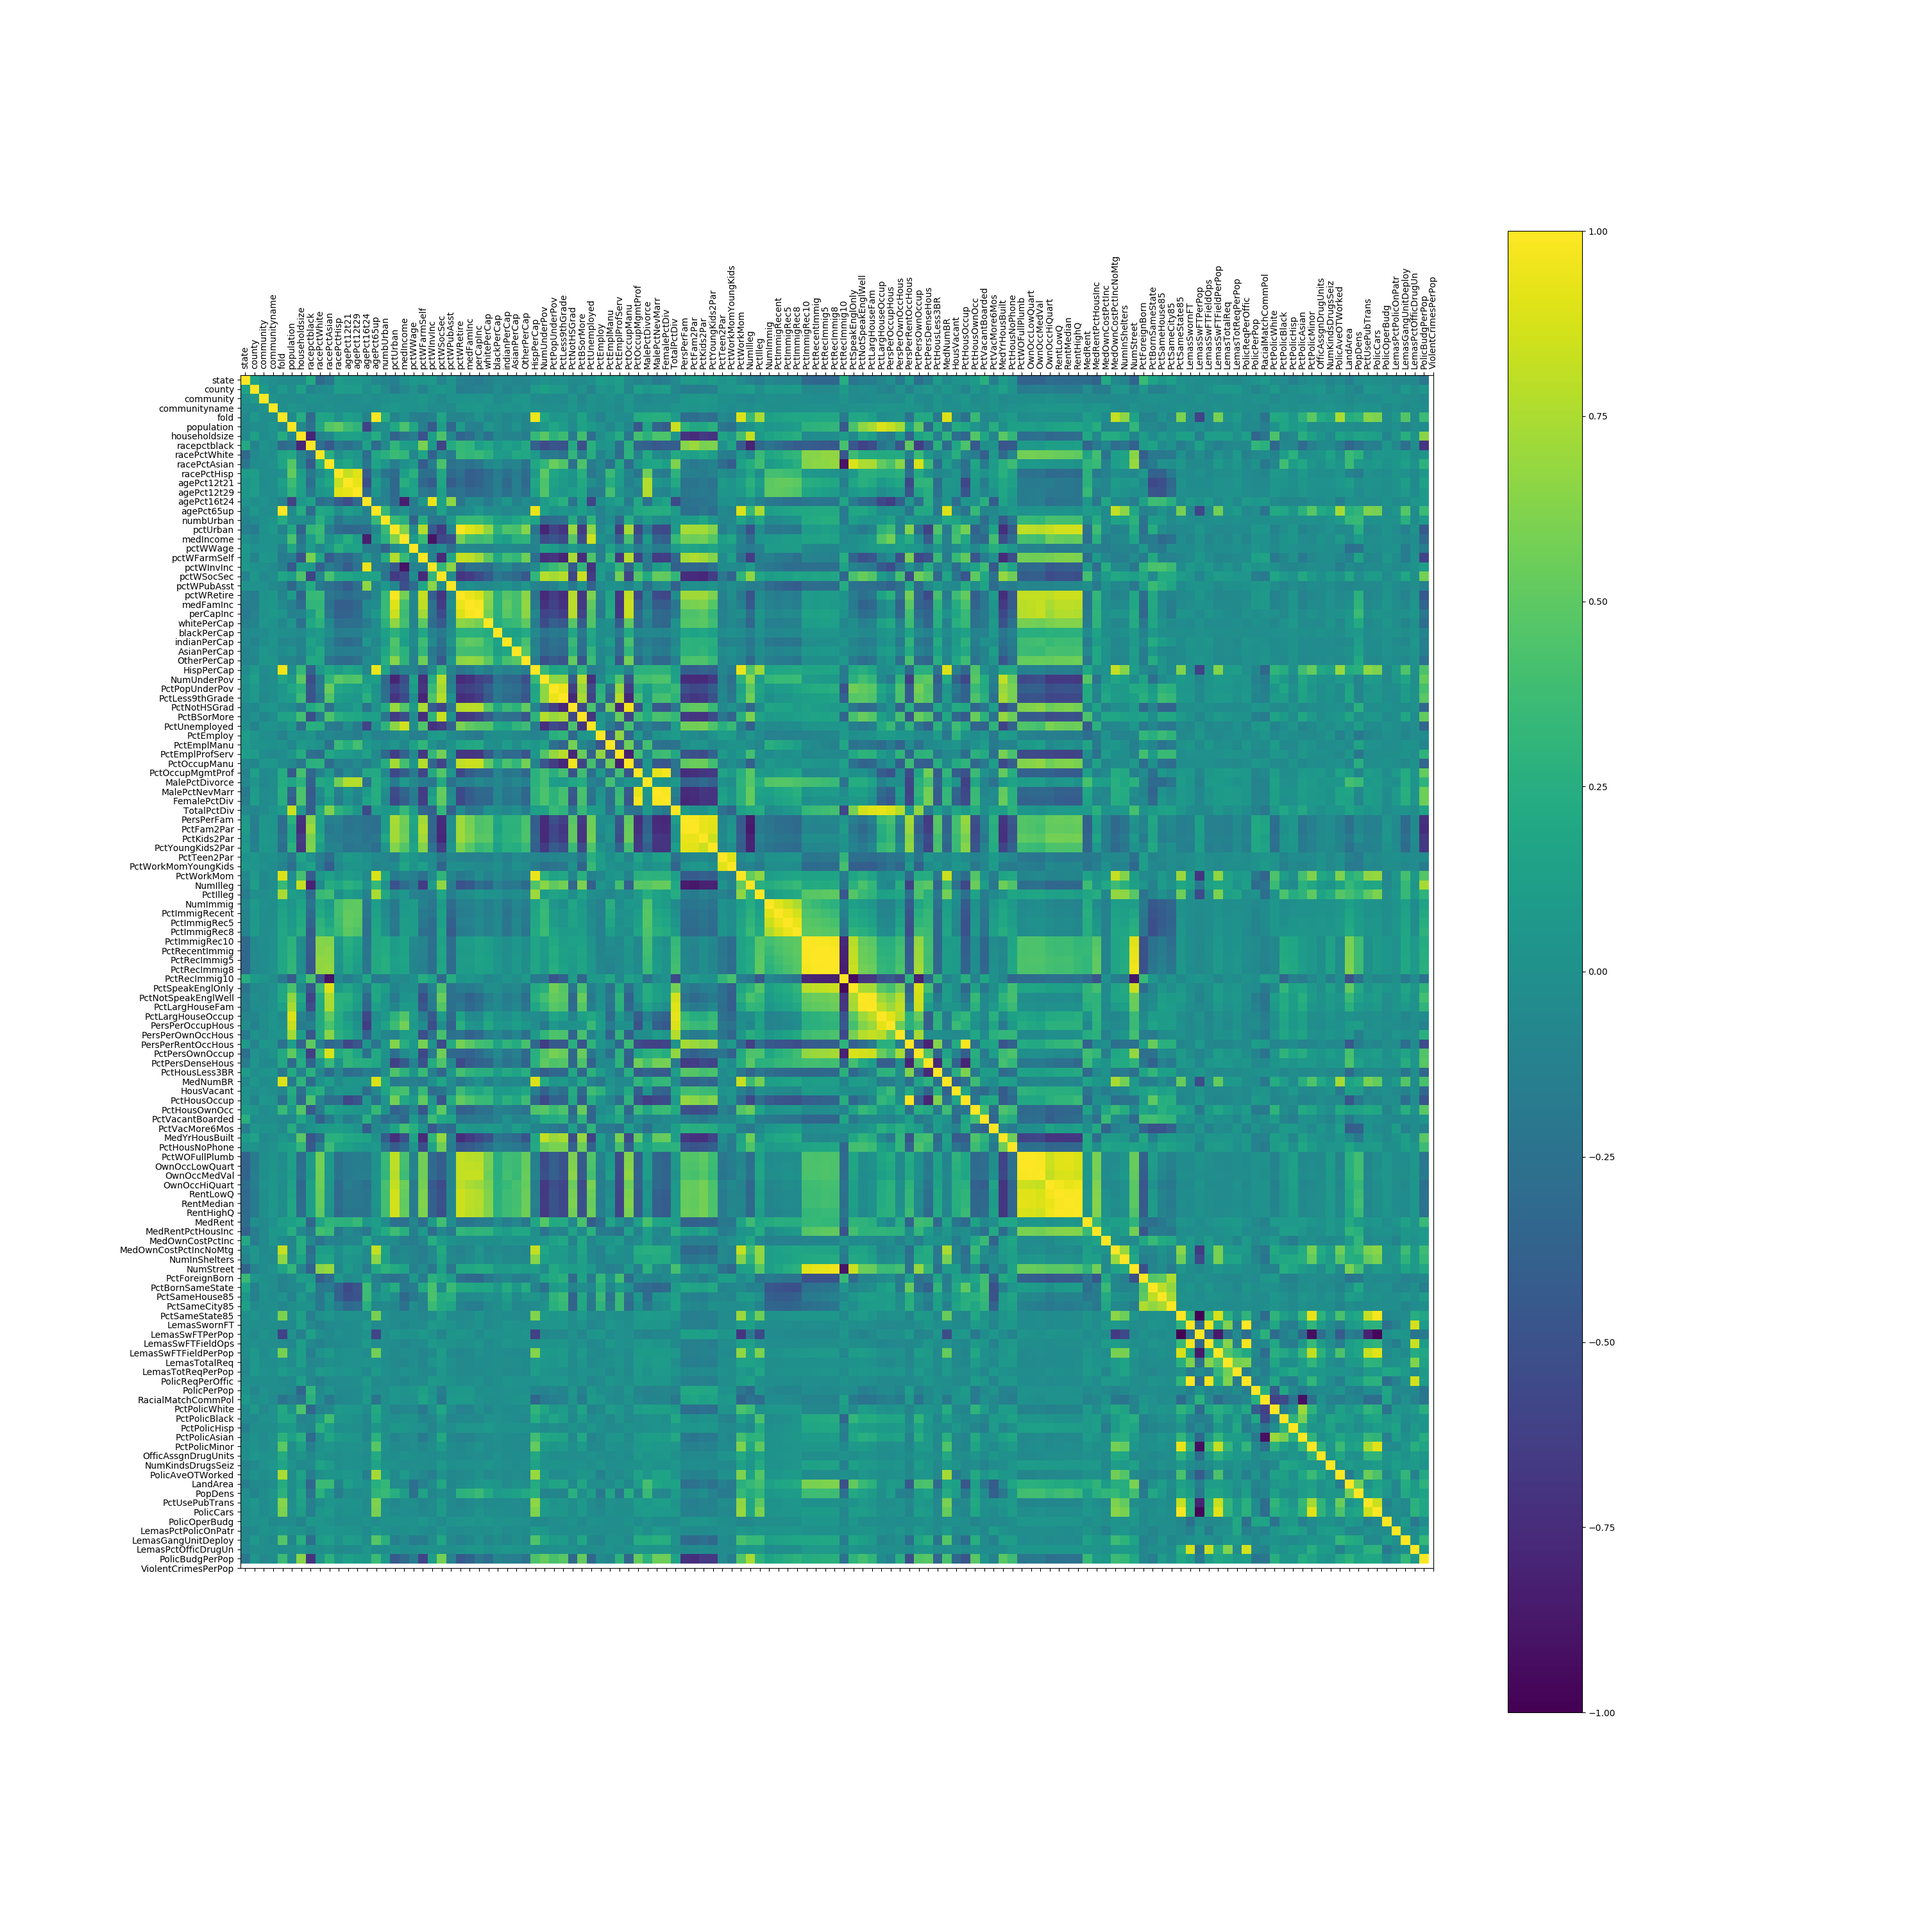
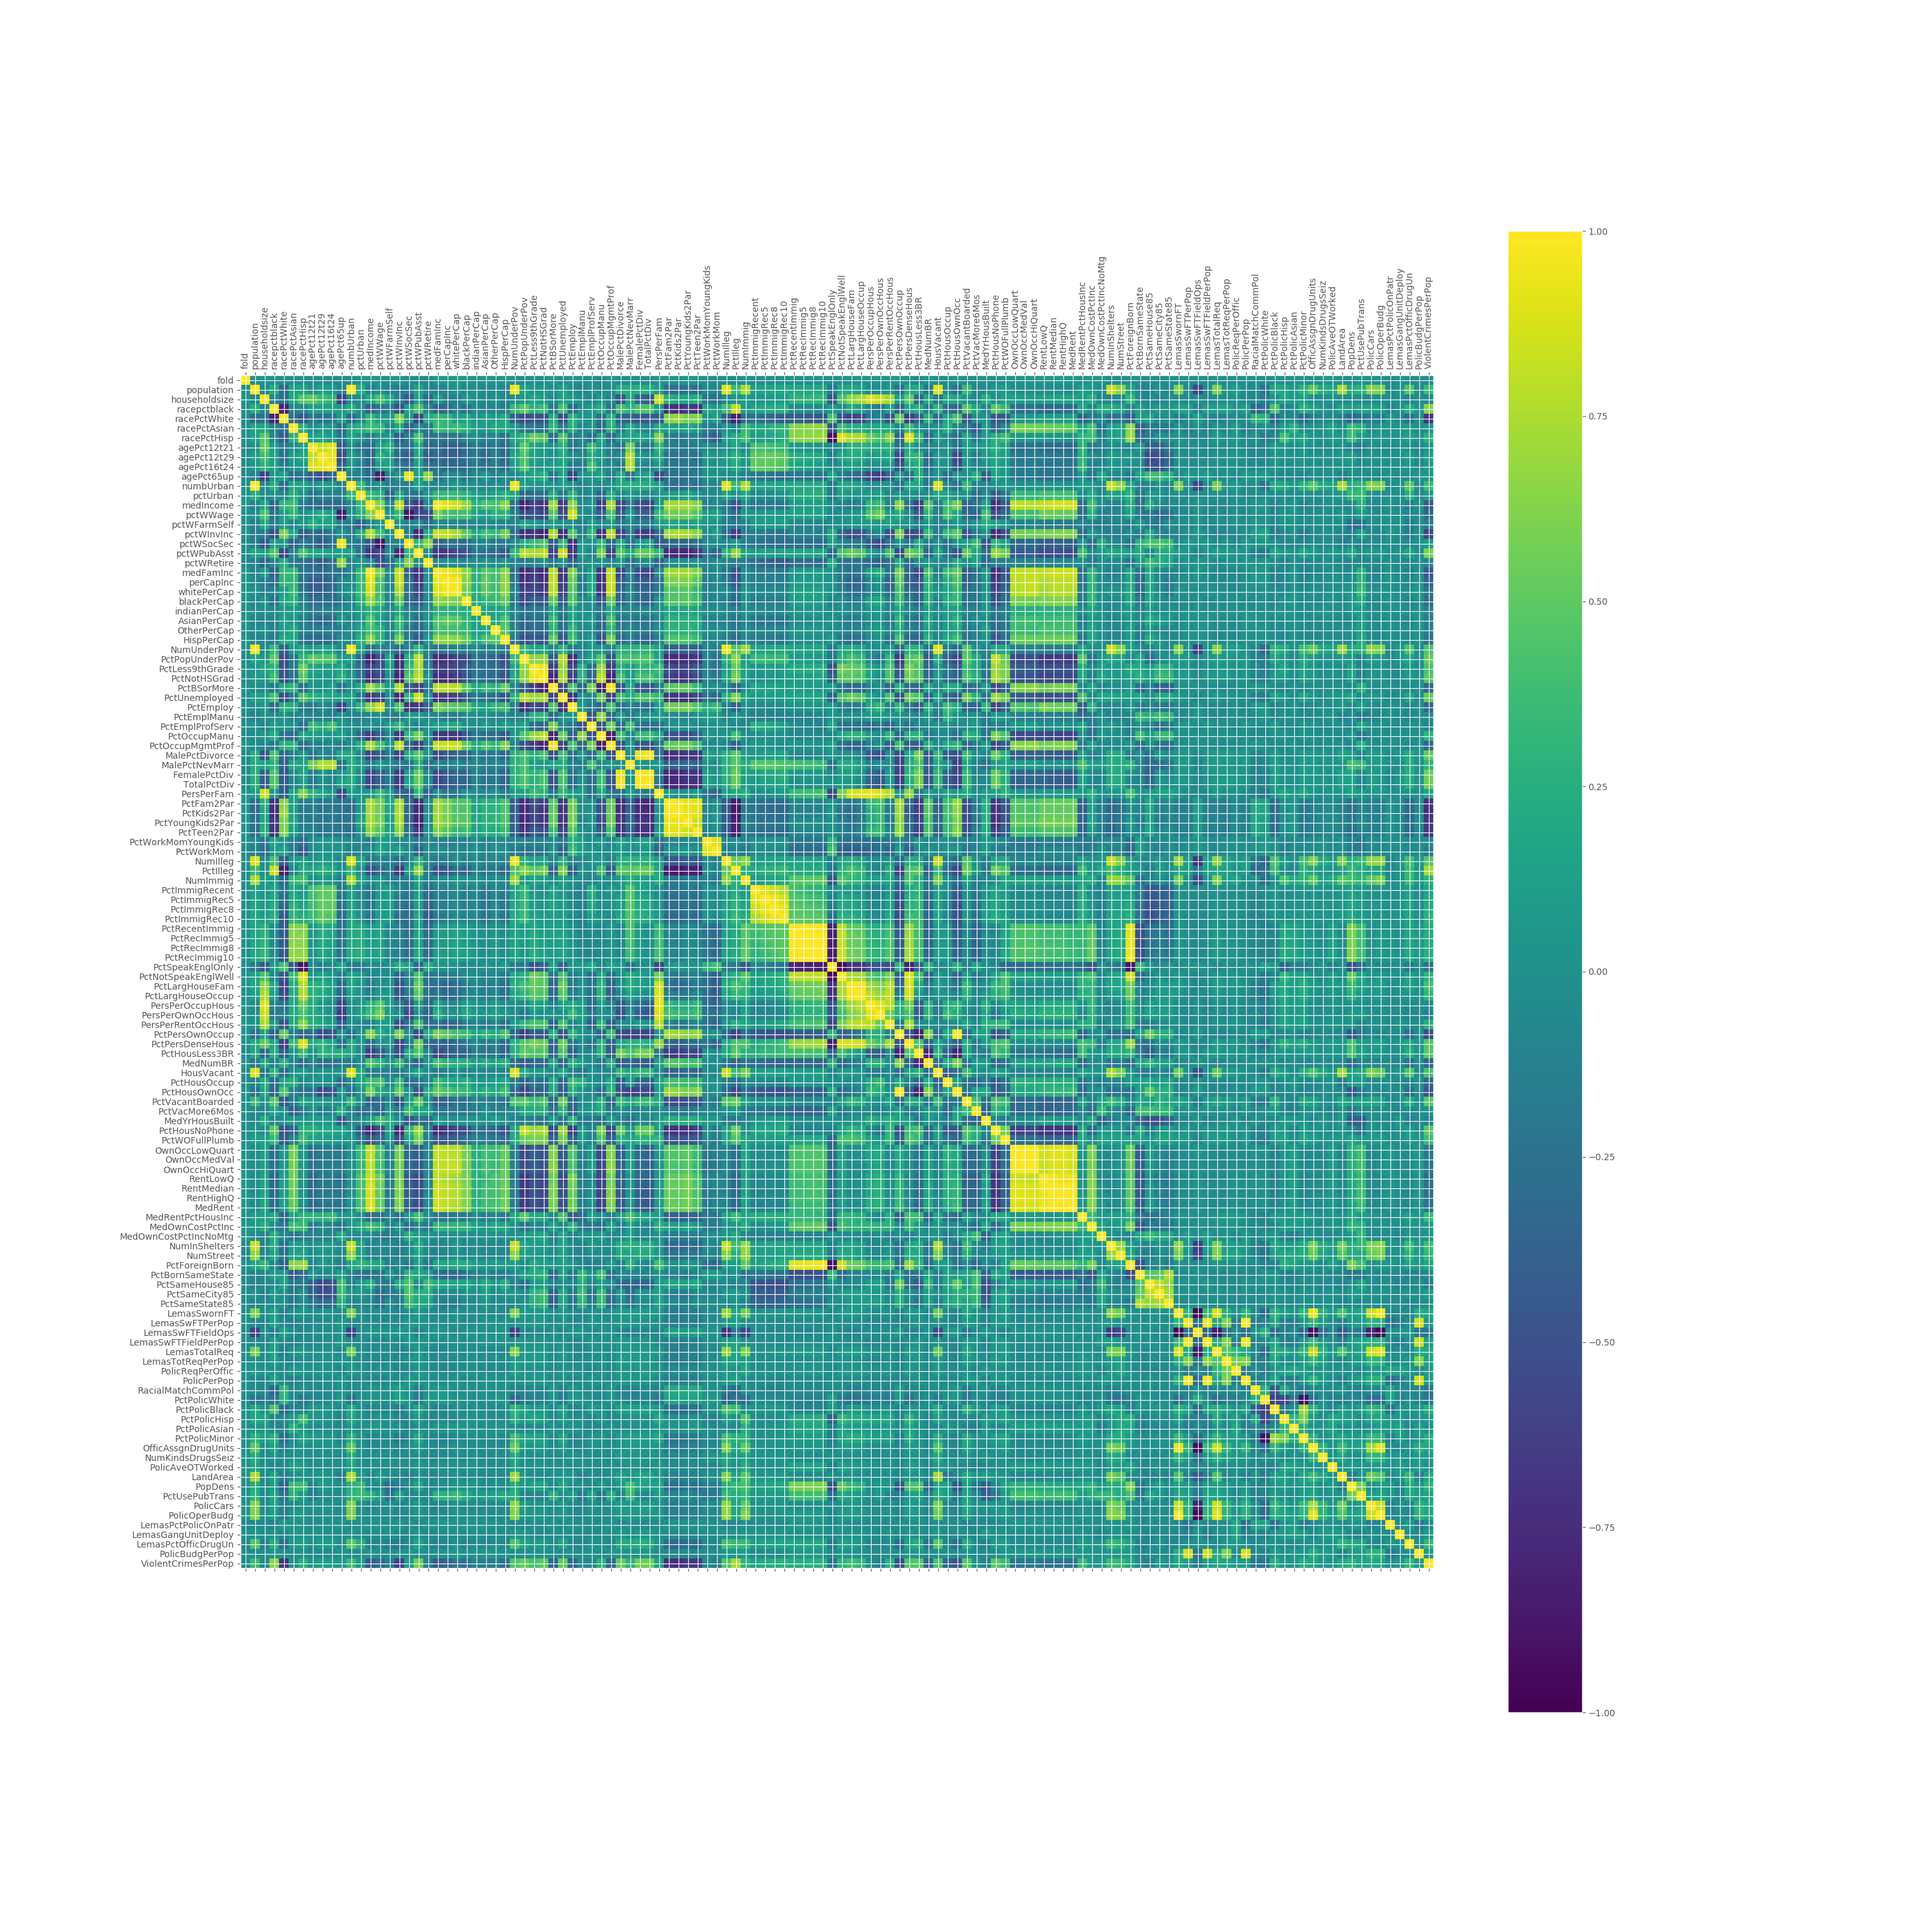
report for 1_d

Changed region(s): [[0.062, 0.124, 0.744, 0.837]]

diff --git a/1.py b/1.py
@@ -11,7 +11,7 @@ from sklearn.model_selection import KFold
 plt.style.use('ggplot')
 not_predictors = ["state", "county", "community", "communityname"]
 response_var = "ViolentCrimesPerPop"
-def plot_corr(correlations, columns):
+def plot_corr(correlations, columns, name):
     fig = plt.figure(figsize=(30,30))
     ax = fig.add_subplot(111)
     cax = ax.matshow(correlations, vmin=-1, vmax=1)
@@ -22,7 +22,7 @@ def plot_corr(correlations, columns):
     ax.set_xticklabels(columns)
     ax.set_yticklabels(columns)
     plt.xticks(rotation=90)
-    plt.savefig("./plots/1_c_correlations.png")
+    plt.savefig(name)
 def scatterplot(X, Y, xLabel, yLabel, xticks=None, yticks=None):
     plt.scatter(X, Y, s=2)
     plt.xlabel(xLabel)
@@ -47,15 +47,14 @@ def b_fill_nan():
     #print(data_df.isnull().sum())
     global not_predictors
     data_df = data_df.drop(not_predictors, axis=1)
-    print(data_df.shape)
-    print(data_df.head(2).to_csv())
+    # print(data_df.shape)
+    # print(data_df.head(2).to_csv())
     return data_df[:1495],data_df[1495:], data_df
 #=======================================================================================================================
 def c_correlation_matrix():
     train_data, test_data,_ = b_fill_nan()
     correlations = train_data.corr()
-    print(train_data.columns.values)
-    plot_corr(correlations, train_data.columns.values)
+    plot_corr(correlations, train_data.columns.values, "./plots/1_c_correlations.png")
 #=======================================================================================================================
 def d_coefficient_variation():
     train_data, test_data,_ = b_fill_nan()
@@ -64,7 +63,7 @@ def d_coefficient_variation():
     CV = std_values/mean_values
     CV = CV.sort_values(ascending=False)
 
-    print(CV)
+    print(CV.to_csv())
     return CV
 #=======================================================================================================================
 def e_plots():
@@ -262,8 +261,8 @@ if __name__ == '__main__':
 
     #a_read_data()
     #b_fill_nan()
-    c_correlation_matrix()
-    #d_coefficient_variation()
+    #c_correlation_matrix()
+    d_coefficient_variation()
     #e_plots()
     #f_linear_regression()
     #g_ridge_regression()

diff --git a/README.md b/README.md
@@ -23,3 +23,132 @@
 
 ### c) Correlation Matrix
 -   ![alt text](https://github.com/MLforDTIN-18Srping/homework3-kaladharusc/blob/master/plots/1_c_correlations.png "correlation matrix")
+
+### d) Coefficient of Variation for each feature.
+
+    | Feature               | Coefficient Of Variation |
+    |-----------------------|--------------------------|
+    | NumStreet             | 4.292922989491593        |
+    | NumInShelters         | 3.470952139705214        |
+    | NumIlleg              | 3.0589643472092356       |
+    | NumImmig              | 2.9266352462888148       |
+    | LemasPctOfficDrugUn   | 2.552945511727576        |
+    | NumUnderPov           | 2.3424431162181505       |
+    | population            | 2.2411046245803745       |
+    | numbUrban             | 2.0384614919156445       |
+    | HousVacant            | 1.9684670491351257       |
+    | LandArea              | 1.6454078602149063       |
+    | racePctHisp           | 1.612091005228411        |
+    | PctNotSpeakEnglWell   | 1.4566183675039828       |
+    | racepctblack          | 1.4288854186502822       |
+    | PctUsePubTrans        | 1.3971097612127603       |
+    | racePctAsian          | 1.359099684159002        |
+    | PctRecentImmig        | 1.288286991787815        |
+    | PctRecImmig5          | 1.286184069121448        |
+    | PctRecImmig10         | 1.2704761039803925       |
+    | PctRecImmig8          | 1.2655788622333226       |
+    | PctPersDenseHous      | 1.1329256518367359       |
+    | PctForeignBorn        | 1.0658797341302004       |
+    | PctVacantBoarded      | 1.0548273380808388       |
+    | ViolentCrimesPerPop   | 0.9879088645521366       |
+    | PctHousNoPhone        | 0.9227647590220344       |
+    | PctIlleg              | 0.9215499866941839       |
+    | OwnOccMedVal          | 0.889409997564829        |
+    | OwnOccHiQuart         | 0.8835825993723008       |
+    | LemasSwornFT          | 0.8722529356778985       |
+    | PopDens               | 0.8644992034803372       |
+    | OwnOccLowQuart        | 0.8595655789242966       |
+    | PctWOFullPlumb        | 0.8432062676593917       |
+    | indianPerCap          | 0.8183681264327733       |
+    | MedNumBR              | 0.8139470895341551       |
+    | PolicOperBudg         | 0.7743443211261958       |
+    | PctLargHouseOccup     | 0.7631976222314811       |
+    | PctPopUnderPov        | 0.754469978085357        |
+    | PctLargHouseFam       | 0.7386915454231807       |
+    | PctPolicAsian         | 0.7262293163276773       |
+    | pctWPubAsst           | 0.7062058943769388       |
+    | pctWFarmSelf          | 0.701897873082006        |
+    | LemasTotalReq         | 0.6975275179267774       |
+    | OfficAssgnDrugUnits   | 0.6888091316674114       |
+    | PctImmigRecent        | 0.6814864307426184       |
+    | PctLess9thGrade       | 0.6804903296377428       |
+    | OtherPerCap           | 0.6732169975302158       |
+    | pctUrban              | 0.6433181716461008       |
+    | RentLowQ              | 0.6396616452190297       |
+    | AsianPerCap           | 0.6148655265869314       |
+    | blackPerCap           | 0.5993405451897994       |
+    | PctPolicHisp          | 0.5949533571476963       |
+    | RentHighQ             | 0.5940594809708987       |
+    | PctBSorMore           | 0.5926798349812531       |
+    | medIncome             | 0.5919781653450651       |
+    | PctImmigRec5          | 0.5907934182085816       |
+    | RentMedian            | 0.5687776924869173       |
+    | MedRent               | 0.5634425038390524       |
+    | PctUnemployed         | 0.562424698851533        |
+    | perCapInc             | 0.5580794526579645       |
+    | medFamInc             | 0.5406701530549352       |
+    | PolicCars             | 0.5398226917021794       |
+    | PctNotHSGrad          | 0.5337533808931807       |
+    | whitePerCap           | 0.519828467024789        |
+    | PctOccupManu          | 0.5163793587769291       |
+    | PctEmplManu           | 0.5135297542547989       |
+    | fold                  | 0.510302111015002        |
+    | PctImmigRec8          | 0.5050721810572517       |
+    | agePct16t24           | 0.5003099115377213       |
+    | HispPerCap            | 0.4840679504501606       |
+    | PersPerRentOccHous    | 0.4736550685710704       |
+    | MedYrHousBuilt        | 0.470762074441811        |
+    | MedOwnCostPctIncNoMtg | 0.4702069718356742       |
+    | PctImmigRec10         | 0.4577484543862395       |
+    | PctPolicBlack         | 0.4472186954207617       |
+    | PctVacMore6Mos        | 0.43808176451988246      |
+    | PctOccupMgmtProf      | 0.43266953598425273      |
+    | MedOwnCostPctInc      | 0.41550160572977074      |
+    | agePct65up            | 0.4127759758512281       |
+    | MalePctNevMarr        | 0.40406152224265024      |
+    | PctEmplProfServ       | 0.40284884867313686      |
+    | MalePctDivorce        | 0.3993660859242948       |
+    | TotalPctDiv           | 0.37390450168497985      |
+    | LemasGangUnitDeploy   | 0.3710015895528759       |
+    | agePct12t21           | 0.3690831192095117       |
+    | PersPerOccupHous      | 0.3672534015041071       |
+    | pctWInvInc            | 0.365334582744191        |
+    | pctWSocSec            | 0.36071544651696696      |
+    | FemalePctDiv          | 0.3603898277589537       |
+    | PctPolicMinor         | 0.356241433781327        |
+    | householdsize         | 0.3557995664028941       |
+    | PctEmploy             | 0.3514504046780556       |
+    | PctPersOwnOccup       | 0.34920959278252445      |
+    | pctWRetire            | 0.3454209567630026       |
+    | PctHousLess3BR        | 0.34355333525689935      |
+    | MedRentPctHousInc     | 0.34306486918919427      |
+    | PctWorkMomYoungKids   | 0.3406809390881452       |
+    | PctBornSameState      | 0.33624489274009706      |
+    | PctHousOwnOcc         | 0.33612858762074044      |
+    | PctWorkMom            | 0.3360178908039217       |
+    | PctKids2Par           | 0.33487556916187433      |
+    | PctSameHouse85        | 0.33451877905492433      |
+    | PctYoungKids2Par      | 0.3338334680337065       |
+    | PctFam2Par            | 0.3331946554395547       |
+    | racePctWhite          | 0.3302126634442826       |
+    | pctWWage              | 0.3286140569015946       |
+    | PctTeen2Par           | 0.3278008334193768       |
+    | PolicBudgPerPop       | 0.32003502145419926      |
+    | PersPerOwnOccHous     | 0.3192144507431373       |
+    | PctSameCity85         | 0.31875804915193473      |
+    | PersPerFam            | 0.31737540470857095      |
+    | LemasTotReqPerPop     | 0.3094225266056299       |
+    | PolicAveOTWorked      | 0.30888779112006637      |
+    | PctSameState85        | 0.2984340732673321       |
+    | agePct12t29           | 0.2913148106352062       |
+    | PctSpeakEnglOnly      | 0.28999867240218546      |
+    | LemasSwFTPerPop       | 0.28843327513706196      |
+    | PolicPerPop           | 0.2883990936086546       |
+    | PctHousOccup          | 0.2681815038662207       |
+    | LemasSwFTFieldPerPop  | 0.24500189758872482      |
+    | PolicReqPerOffic      | 0.2263593215884439       |
+    | NumKindsDrugsSeiz     | 0.14353283569192646      |
+    | RacialMatchCommPol    | 0.13373712221130316      |
+    | PctPolicWhite         | 0.12258236559333853      |
+    | LemasPctPolicOnPatr   | 0.11798844847958818      |
+    | LemasSwFTFieldOps     | 0.06400225509556129      |
